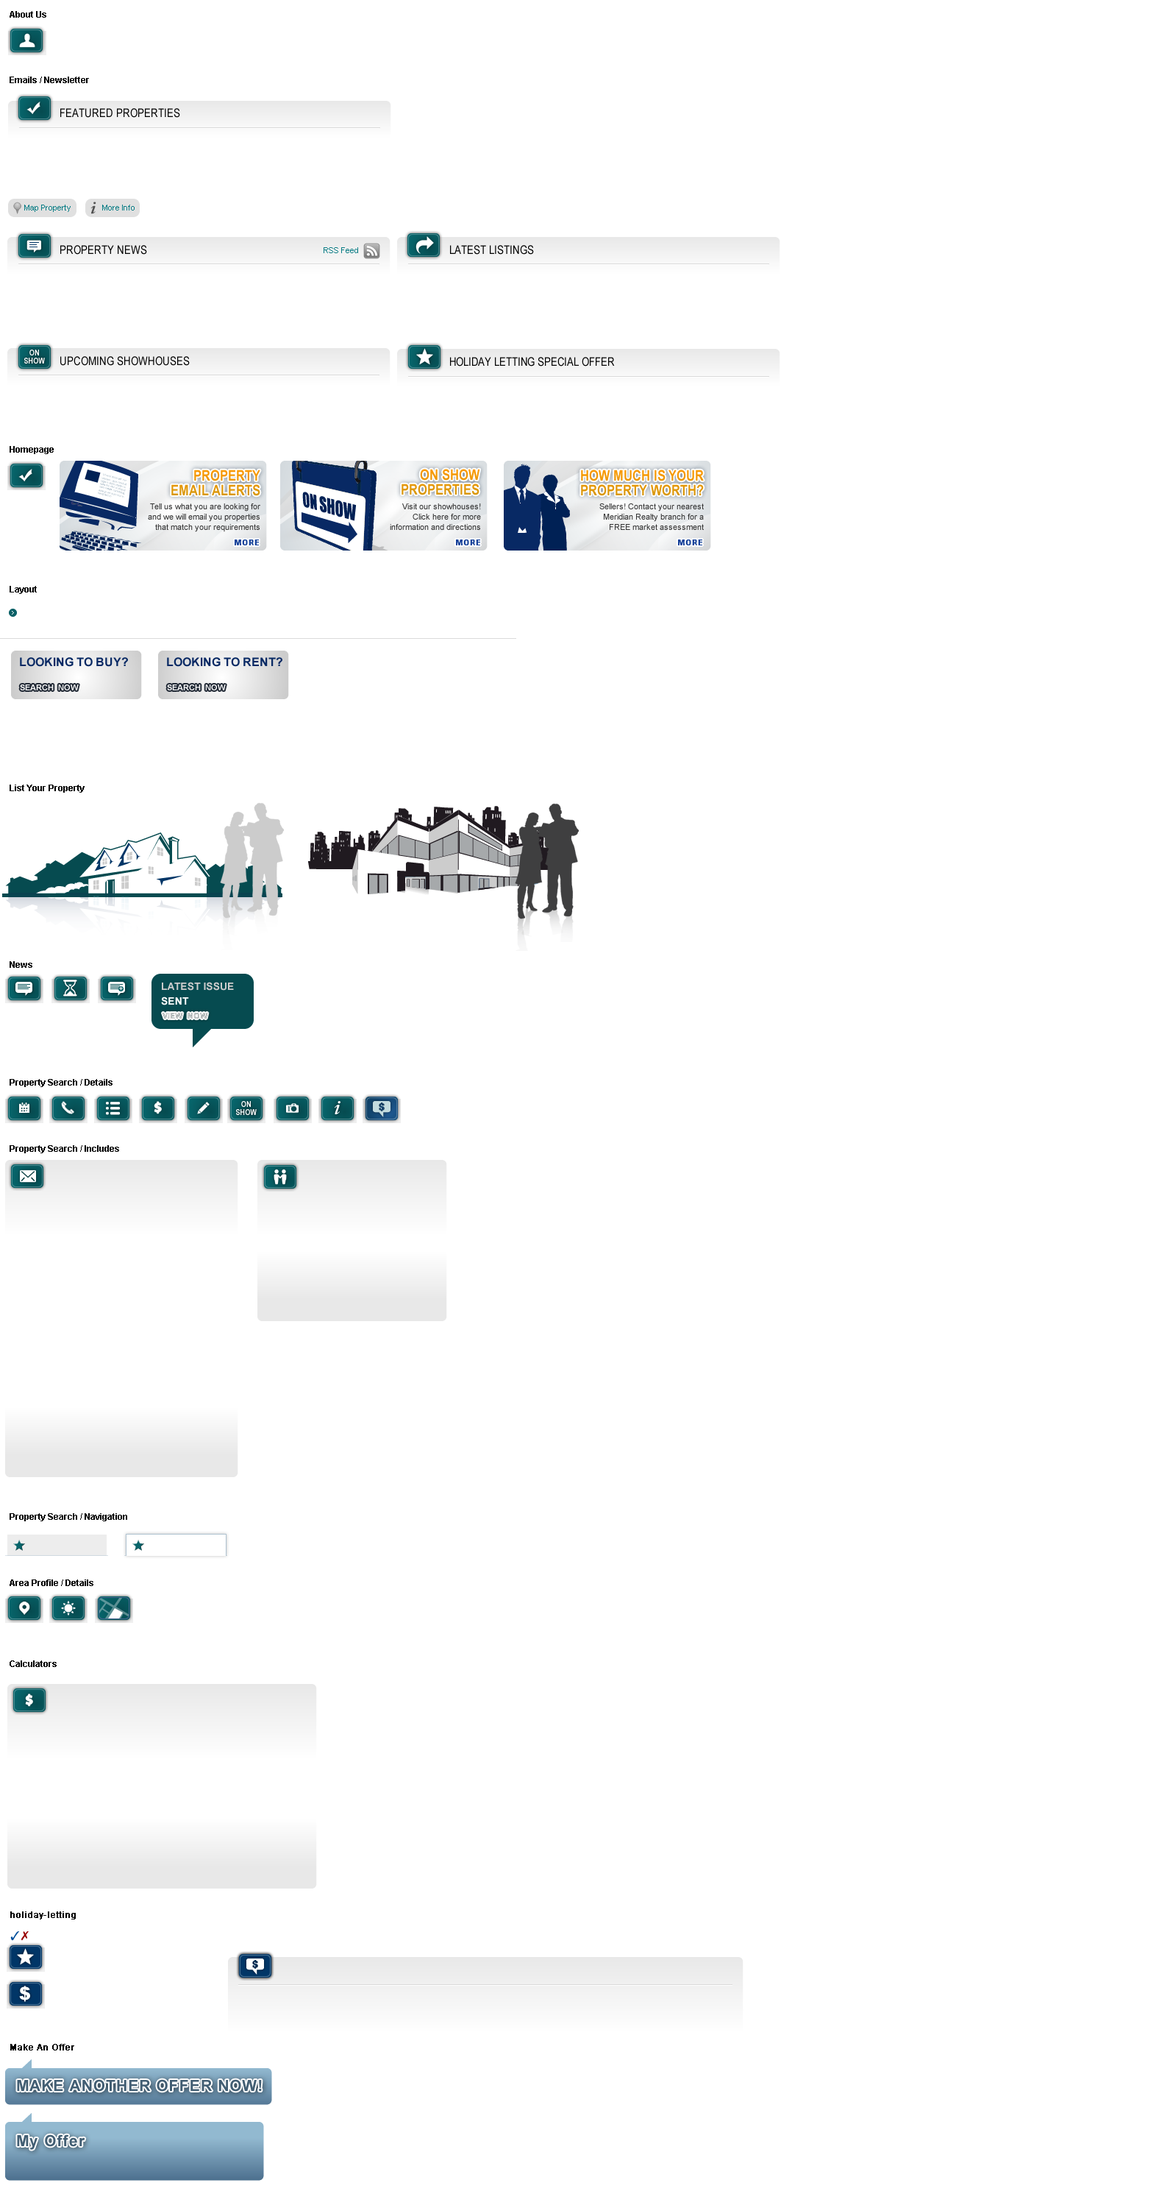
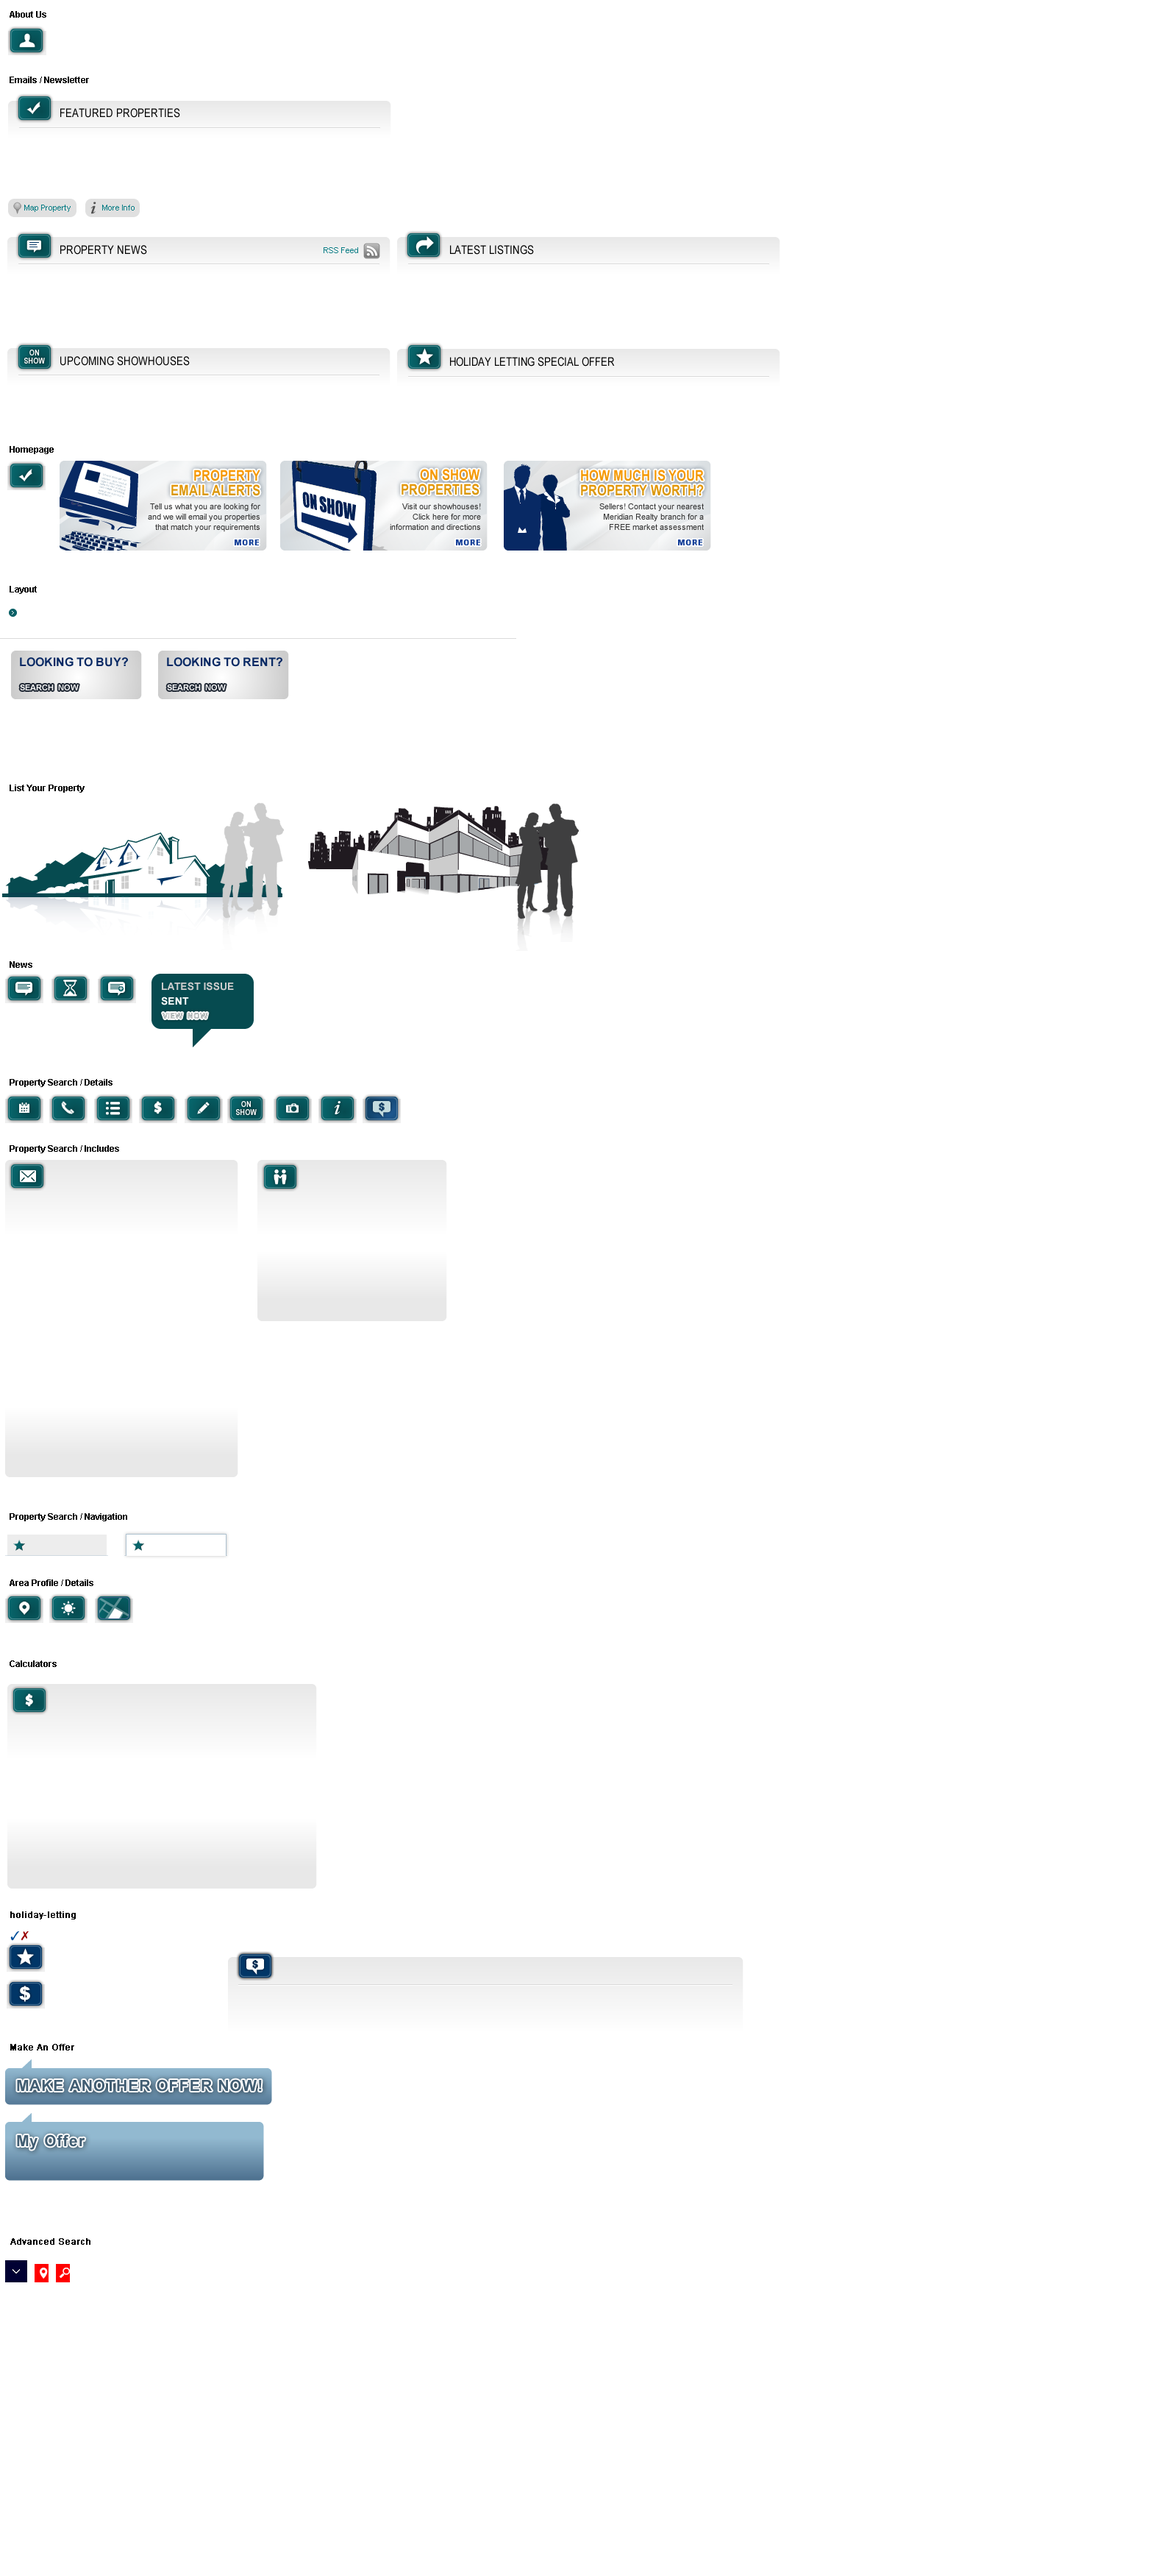
Added advanced search to the client side

Changed region(s): [[0.0, 0.0, 0.616, 0.558], [0.0, 0.713, 0.2464, 0.992], [0.0, 0.589, 0.1232, 0.682]]

diff --git a/package_website_template/assets/css/custom.css b/package_website_template/assets/css/custom.css
@@ -45,7 +45,7 @@ body              { background-color:#FFFFFF;}
 .width200     { width:200px;}
 .width210     { width:210px;}
 .width213     { width:270px;}
-
+.span-230  { width: 230px;} /* Used */
 
 
 /* Search
@@ -53,10 +53,101 @@ body              { background-color:#FFFFFF;}
 .search                       { background:url(/assets/img/custom/layout/search.jpg); background-repeat:repeat-x; background-color:#CCCCCC; width:100%; float:left; padding-bottom:25px; padding-top:17px;}
 .search-button                { background-color:#09314E; border:1px solid #09314E; padding:2px; padding-right:3px; padding-left:3px; font-family:Arial, Helvetica, sans-serif; font-size:11px; color:#FFF;}
 .search-content               { width:877px; margin:0 auto; float:none; font-size:11px; color:#666666;  padding-bottom:15px; padding-top:0px;}
-#call-now                     { padding-left:10px;}
+#call-now                     { padding-left:10px; display: none;}
+#web-search-button         { display:none;}
 
+#search-submit-button { 
+    background:url(/assets/img/custom/advanced-search/search-button.gif) left top no-repeat #ff0000;
+	color:#FFF; border: none; height: 25px; padding:0px 5px 0px 23px; margin:0px;
+	font-family:Arial, Helvetica, sans-serif; font-size:12px; line-height:25px;
+	-moz-border-radius: 5px; -webkit-border-radius: 5px; border-radius: 5px; -khtml-border-radius: 5px;
+}
+#search-submit-button-map { 
+    background:url(/assets/img/custom/advanced-search/search-map.gif) left top no-repeat #ff0000;
+	color:#FFF; border: none; height: 25px; padding:0px 5px 0px 23px;
+	margin:0px; font-family:Arial, Helvetica, sans-serif; font-size:12px; line-height:25px;
+	-moz-border-radius: 5px; -webkit-border-radius: 5px; border-radius: 5px; -khtml-border-radius: 5px;
+}
 
+#show_more_less       { font-weight:bold;}
+#adv-serch-webref     { width:280px; background:#bfc2c8; height:30px; padding:10px;}
+#adv-serch-webref-txt { font-size:13px; color:#001f52;}
+#ref_num              { height: 25px; border:#d6d6d6; padding:0px 3px 0px 3px;}
 
+#adv-serch-mid { width:877px; margin-bottom:20px;}
+
+#as_priced_to, #as_priced_from { height:30px; line-height:30px; width:290px; padding:0px 5px 0px 5px;}
+
+#as_priced_from_label       { font-family:Arial, Helvetica, sans-serif; font-size:13px!important;}
+#as_priced_to_label         { font-family:Arial, Helvetica, sans-serif; font-size:13px!important;}
+#as_only_display_properties { font-family:Arial, Helvetica, sans-serif; font-size:13px!important; padding-bottom:5px;}
+#as_property_types          { font-family:Arial, Helvetica, sans-serif; font-size:13px!important;}
+#as_neighbouring_suburbs    { font-family:Arial, Helvetica, sans-serif; font-size:13px!important; color:#001F52; margin:0; padding: 0px 0px 10px 0px;}
+
+.as-text { font-size:13px; color:#011F52;}
+
+.chzn-container-multi .chzn-choices .search-field .default {
+    color: #999999; width:160px!important;
+}
+.chzn-container-multi .chzn-choices {
+    background-color: #FFFFFF;
+    background-image: -moz-linear-gradient(center bottom , white 85%, #EEEEEE 99%);
+    border: 1px solid #d6d6d6; cursor: text; height: auto !important; margin: 0; 
+    overflow: hidden; padding: 0; position: relative; width: 620px;
+}
+
+#qs_buy_rent, #qs_type { height:30px;}
+#qs_location { height:28px; padding-left:5px;}
+
+.vSelectField2 {
+    border: 1px solid #d6d6d6!important;
+    font-family: Arial,Helvetica,sans-serif;
+    font-size: 11px;
+}
+#as-selections-qs_location2 ul.as-selections {background-color: #FFFFFF; border: 1px solid #d6d6d6; float: left; margin: 0; overflow: auto; width:540px!important;}
+
+div.styled {
+    overflow:hidden;
+    background: white url(/assets/img/custom/advanced-search/arrow.gif) no-repeat bottom right;
+    width:65px;
+    border: solid 1px #ccc;
+}
+div.styled select {
+    width:88px;
+    background-color:transparent;
+    background-image:none;
+    -webkit-appearance: none;
+    border:none;
+    box-shadow:none;
+	font-size:11px;
+	font-family:Arial, Helvetica, sans-serif;
+}
+div.styled2 {
+    overflow:hidden;
+    padding:0; 
+    margin:0;
+    background: white url(/assets/img/custom/advanced-search/arrow.gif) no-repeat bottom right;
+    width:248px;
+    border: solid 1px #ccc;
+}
+div.styled2 select {
+    width:270px;
+    background-color:transparent;
+    background-image:none;
+    -webkit-appearance: none;
+    border:none;
+    box-shadow:none;
+	font-size:11px;
+	font-family:Arial, Helvetica, sans-serif;
+}
+@-moz-document url-prefix() { 
+  div.styled2 select {
+	  padding:7px 2px 0px 2px;
+  }
+  div.styled select {
+	  padding:7px 2px 0px 2px;
+  }
+}
 /* Headings
 ------------------------------------------------------------ */
 h1                            { font-family:Arial, Helvetica, sans-serif; font-size:19px; color:#072E5F; font-weight:normal; }
@@ -181,7 +272,7 @@ a:hover.currency-converter    { color:#C90D1B; background-image:url(/eos/img/cal
 .facebook-heading                       {font-family:Arial, Helvetica, sans-serif; font-size:18px; color:#FFFFFF;}
 .padding-bottom-25                      {padding-bottom: 25px;}
 /* Change Property Search field width to 'auto'  --> */																				 	  /* Here */
-ul.as-selections                        {background-color: #FFFFFF; border: 1px solid #809DB9; float: left; margin: 0; overflow: auto; width:550px;}
+ul.as-selections                        {background-color: #FFFFFF; border: 1px solid #d6d6d6; float: left; margin: 0; overflow: auto; width:550px;}
 
 /* Change Listing Background colour  --> */			/* Here */
 .facebook-listings                      {background: #56555b; height:33px; line-height:33px;}

diff --git a/package_website_template/html/header.html b/package_website_template/html/header.html
@@ -1,39 +1,9 @@
 <!-- Header -->
-<span style="display:none" id="id_flash_header">
-    <div class="header print-hide">
-        <div class="header-content"><img src="/assets/img/custom/layout/logo.jpg" /></div>
-    </div>
-</span>
-<span id="id_static_header" style="display:none">
-    <div class="header print-hide">
-        <div class="header-content"><img src="/assets/img/custom/layout/logo.jpg" /></div>
-    </div>
-</span>
-{% block js %}
-<script type="text/javascript">
-$(document).ready(function(){
-  if(flash_detect().notSupported()) { //Static header
-    $('#id_static_header').toggle();
-	$('#id_flash_header').hide();
-  } else { //flash header
-	$('#id_flash_header').toggle();   
-  }
-});
-</script>
-{% endblock js %}
-<!-- Header 
 <div class="header print-hide">
 	<div class="header-content">
-	<object classid="clsid:D27CDB6E-AE6D-11cf-96B8-444553540000" codebase="http://download.macromedia.com/pub/shockwave/cabs/flash/swflash.cab#version=7,0,19,0" width="100%" height="209">
-        <param name="movie" value="/assets/img/custom/flash/header.swf?where={% if swf_param %}{% ifequal swf_param 'home' %}{{ swf_param }}{% else %}other{% endifequal %}{% else %}other{% endif %}" />
-    	    <param name="quality" value="high" />
-			<param name="allowScriptAccess" value="sameDomain" />
-			<param name="allowFullScreen" value="false" />
-			<param name="wmode" value="transparent" />
-        <embed src="/assets/img/custom/flash/header.swf?where={% if swf_param %}{% ifequal swf_param 'home' %}{{ swf_param }}{% else %}other{% endifequal %}{% else %}other{% endif %}" wmode="transparent" quality="high" pluginspage="http://www.macromedia.com/go/getflashplayer" type="application/x-shockwave-flash" width="100%" height="209"></embed>
-    </object>
+	<img src="/assets/img/custom/layout/logo.jpg" />
     </div>
-</div>-->
+</div>
 
 <!-- Search -->
 {% include 'includes/eos_search.html' %}
